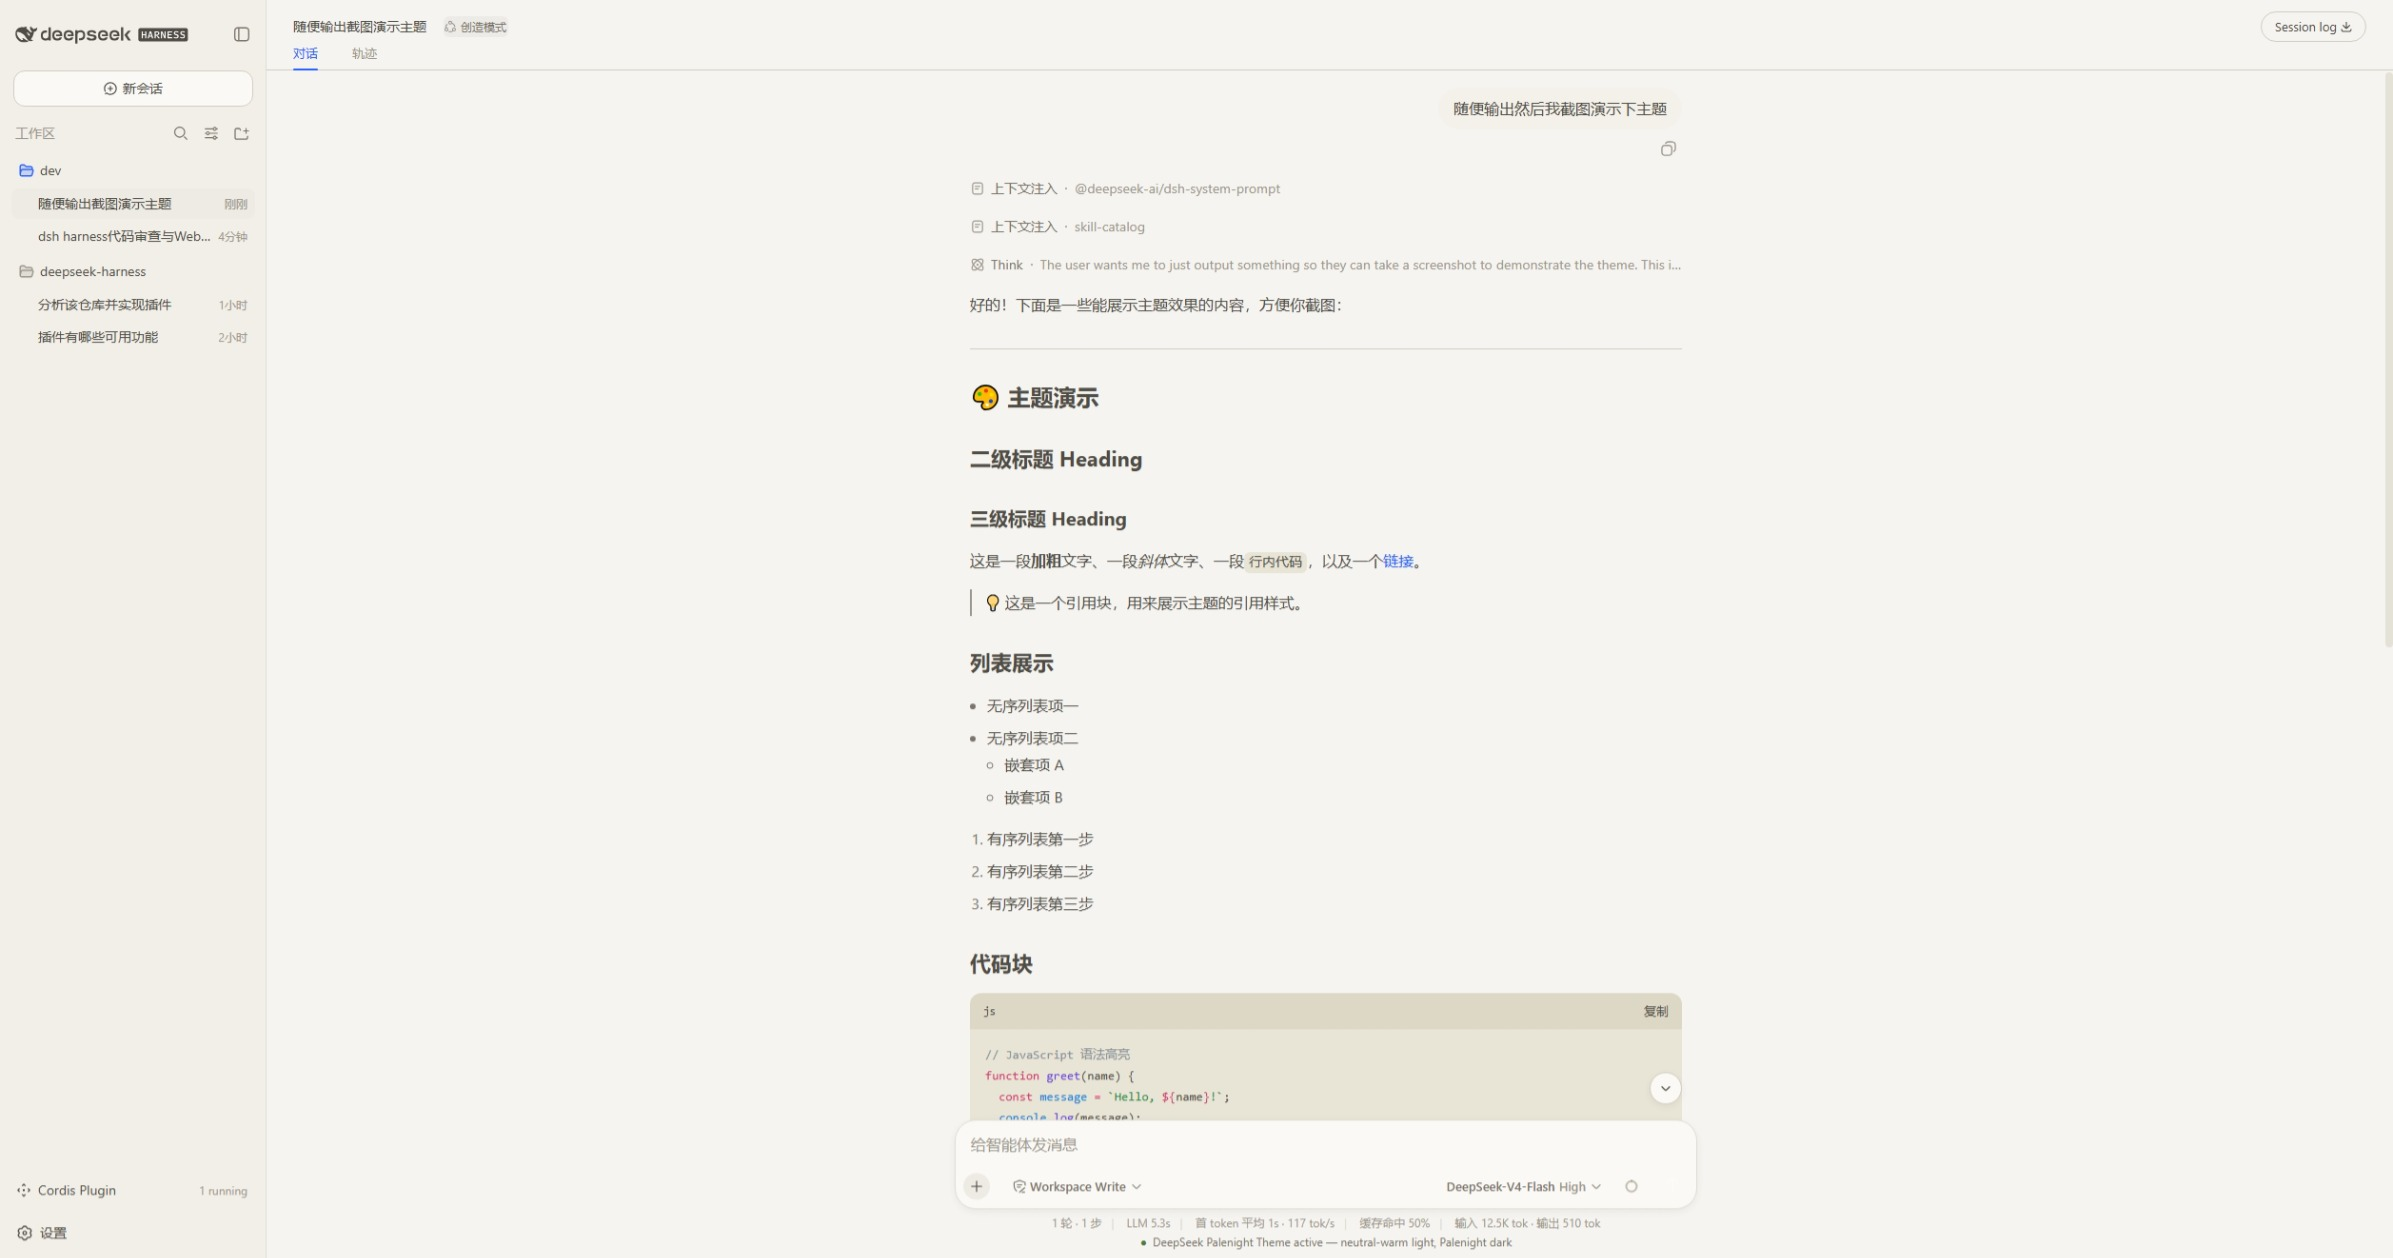
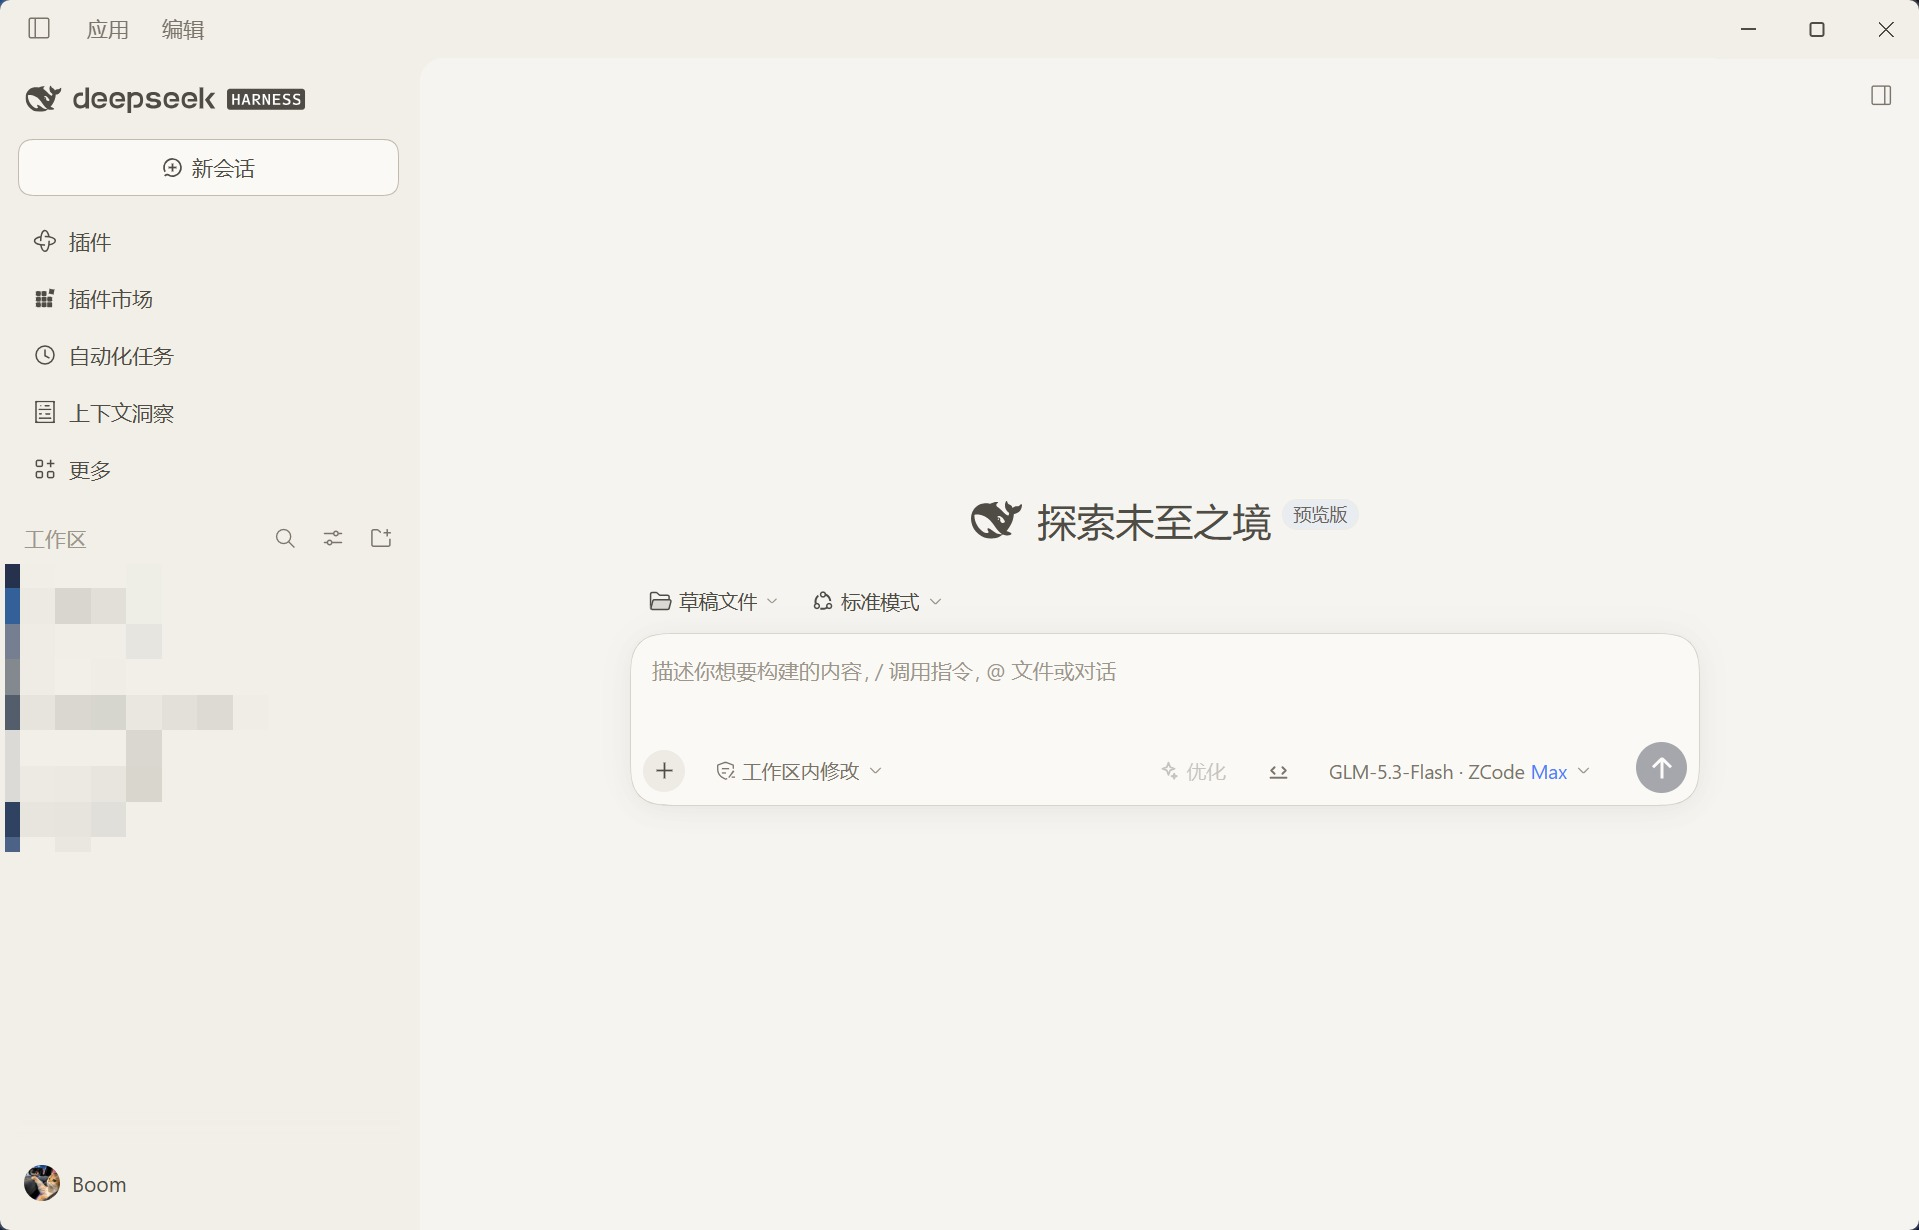
docs: replace light-mode screenshot with post-1.0.1 capture (send button now visible)

diff --git a/README.md b/README.md
@@ -32,8 +32,6 @@ harness shell is needed.
 | --- | --- |
 | <img src="screenshots/light.jpeg" width="420" alt="Light mode"> | <img src="screenshots/dark.jpeg" width="420" alt="Dark mode"> |
 
-> Screenshots predate the v1.0.1 composer-button contrast fix.
-
 ## How it works
 
 The dsh web frontend exposes a `theme` client service. `overrideTokens(source,

diff --git a/README.zh-CN.md b/README.zh-CN.md
@@ -29,8 +29,6 @@
 | --- | --- |
 | <img src="screenshots/light.jpeg" width="420" alt="亮色模式"> | <img src="screenshots/dark.jpeg" width="420" alt="暗色模式"> |
 
-> 截图早于 v1.0.1 的发送按钮对比度修复。
-
 ## 原理
 
 dsh 前端暴露 `theme` client 服务，`overrideTokens(source, tokens)` 会把
